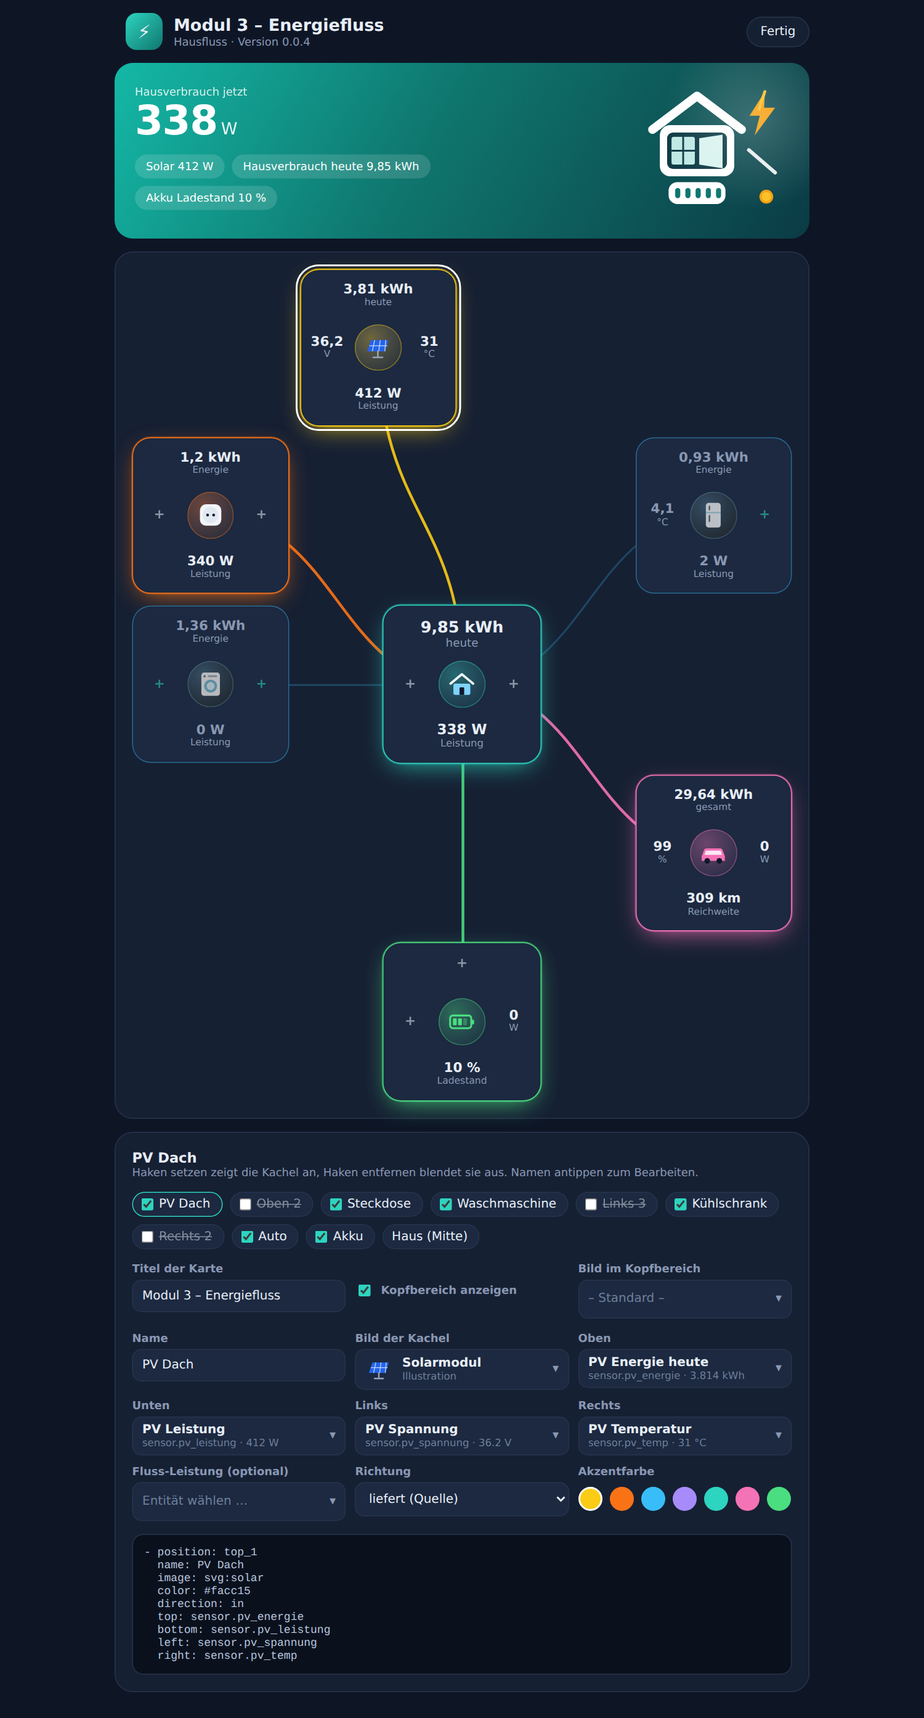
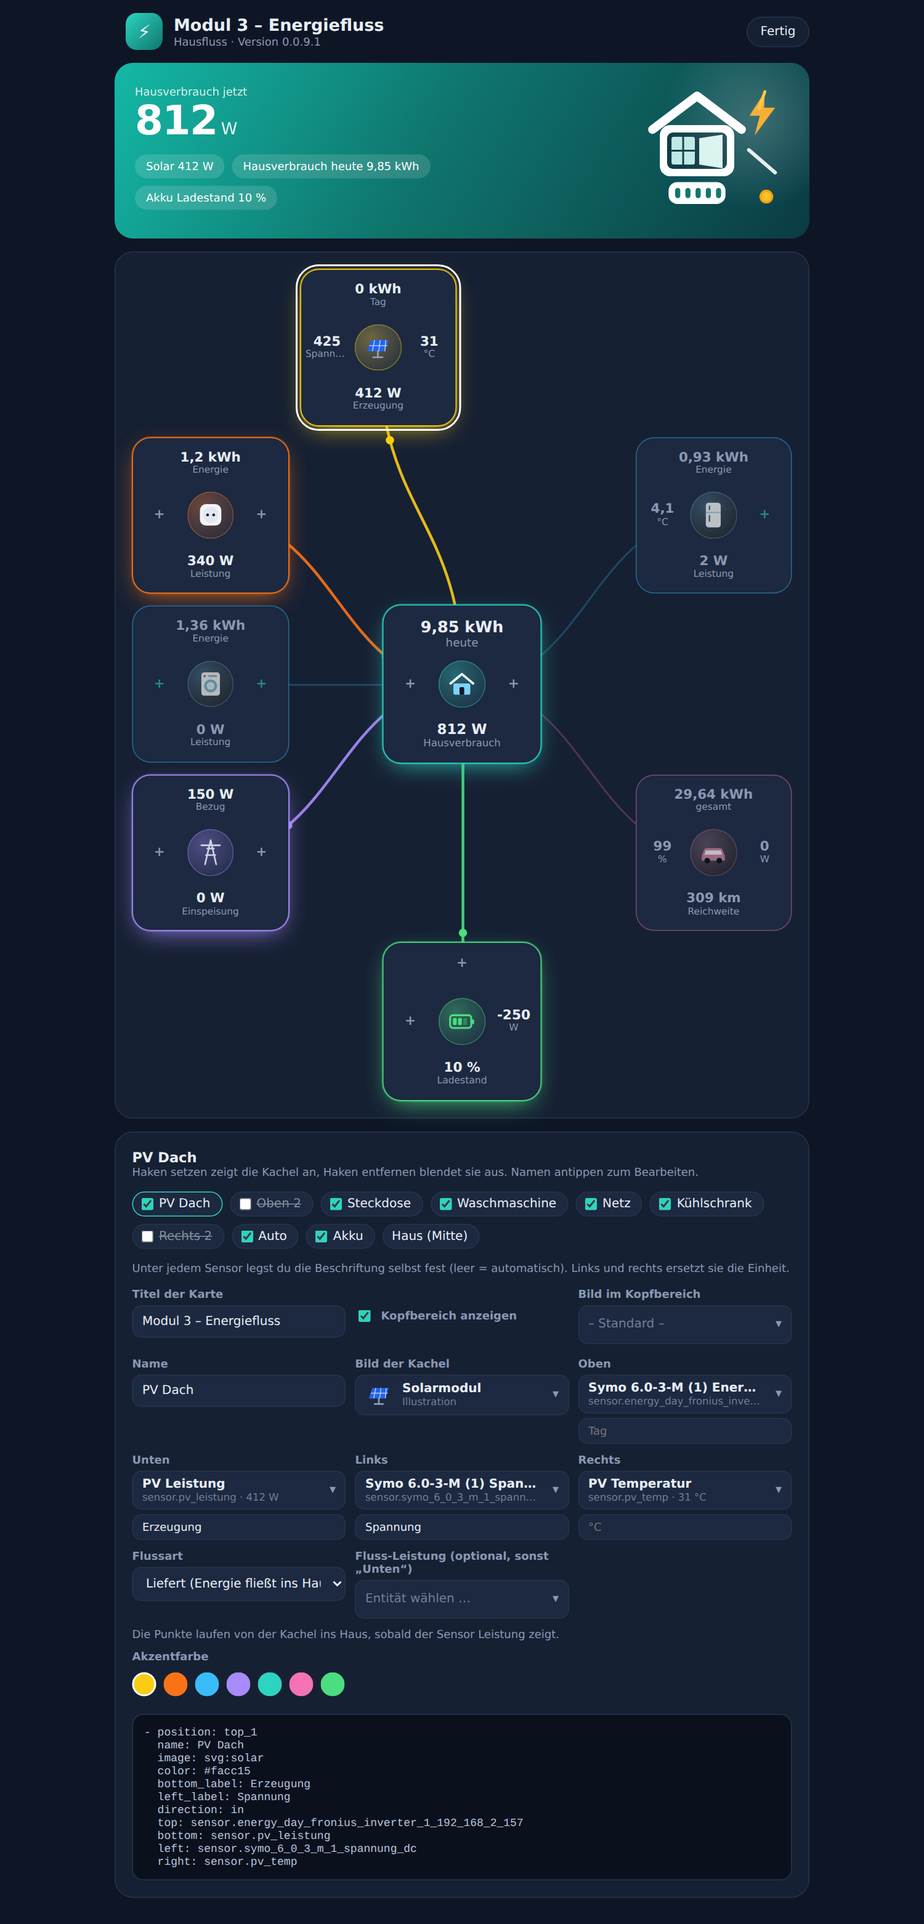
Add files via upload

diff --git a/custom_components/hausfluss/frontend/hausfluss-card.js b/custom_components/hausfluss/frontend/hausfluss-card.js
@@ -1,5 +1,5 @@
-/* Hausfluss – Modul 3 Energiefluss · Version 0.0.7 */
-const VERSION = '0.0.7';
+/* Hausfluss – Modul 3 Energiefluss · Version 0.0.9.1 */
+const VERSION = '0.0.9.1';
 const POS = {
   top_1: [2, 1, 'in', '#facc15'], top_2: [3, 1, 'in', '#fbbf24'],
   left_1: [1, 2, 'out', '#f97316'], left_2: [1, 3, 'out', '#38bdf8'], left_3: [1, 4, 'out', '#a78bfa'],
@@ -43,6 +43,27 @@ const img = (v) => /^svg:/.test(v) ? svgTag(v.slice(4)) : /^(\/|https?:)/.test(v
 const flowOf = (n) => n.flow || (n.direction ? (n.direction === 'in' ? 'supply' : 'consume') : POS[n.position] && POS[n.position][2] === 'in' ? 'supply' : 'consume');
 const toW = (st) => { const v = parseFloat(st?.state); return isNaN(v) ? NaN : /^kW$/i.test(st.attributes.unit_of_measurement || '') ? v * 1000 : v; };
 
+const pidOf = (n, h) => { const b = n.bottom && h.states[n.bottom]; return n.power || (b && /^k?W$/i.test(b.attributes.unit_of_measurement || '') ? n.bottom : ''); };
+// Leistung einer Kachel in W: positiv = zur Kachel, negativ = ins Haus
+const nodeW = (n, h) => {
+  const g = (id) => (id && h.states[id] ? toW(h.states[id]) : NaN), f = flowOf(n);
+  if (f === 'split') { const a = g(n.power_to_node), b = g(n.power_to_house); return (isNaN(a) ? 0 : Math.abs(a)) - (isNaN(b) ? 0 : Math.abs(b)); }
+  const v = g(pidOf(n, h)); if (isNaN(v)) return 0;
+  return f === 'supply' ? -Math.abs(v) : f === 'consume' ? Math.abs(v) : n.invert ? -v : v;
+};
+// Hausverbrauch: Zufluss (Solar, Netzbezug, Akku entladen) minus Abfluss (Einspeisung, Akku laden).
+// Verbraucher-Kacheln gehören zum Haus; nur der Restverbrauch zieht sie zusätzlich ab.
+const calcHouse = (nodes, h) => {
+  let total = 0, cons = 0, bidir = false; const parts = [], cs = [];
+  nodes.forEach((n) => {
+    const f = flowOf(n), w = nodeW(n, h);
+    if (f === 'consume') { if (w) { cons += Math.abs(w); cs.push({ n, v: Math.abs(w) }); } return; }
+    if (f === 'both' || f === 'split') bidir = true;
+    total += -w; parts.push({ n, v: -w });
+  });
+  return { total: Math.max(0, total), rest: Math.max(0, total - cons), parts, cons: cs, bidir };
+};
+
 const CSS = `
 :host{display:block}
 ha-card{display:block;background:none;box-shadow:none;border:none;color:#e8eef8;font-family:inherit}
@@ -71,6 +92,7 @@ svg.lines{position:absolute;inset:0;width:100%;height:100%;z-index:0;pointer-eve
 .s.e{color:#2dd4bf;opacity:.55}
 .s.t{top:8%;left:50%;transform:translateX(-50%)}.s.b{bottom:8%;left:50%;transform:translateX(-50%)}
 .s.l{left:3%;top:50%;transform:translateY(-50%);width:28%}.s.r{right:3%;top:50%;transform:translateY(-50%);width:28%}
+.s.l i,.s.r i{overflow:hidden;text-overflow:ellipsis}
 .hub .s.t{font-size:10cqw}.hub .s.b{font-size:9cqw}
 .narrow .board{padding:14px}
 .narrow .grid{grid-template-columns:1fr 1fr;column-gap:36px;row-gap:14px}
@@ -127,13 +149,10 @@ class HausflussCard extends HTMLElement {
     this._upd();
   }
 
-  _pid(n) { const b = n.bottom && this._h.states[n.bottom]; return n.power || (b && /^k?W$/i.test(b.attributes.unit_of_measurement || '') ? n.bottom : ''); }
-  _w(n) {
-    const h = this._h, g = (id) => (id && h.states[id] ? toW(h.states[id]) : NaN), f = flowOf(n);
-    if (f === 'split') { const a = g(n.power_to_node), b = g(n.power_to_house); return (isNaN(a) ? 0 : Math.abs(a)) - (isNaN(b) ? 0 : Math.abs(b)); }
-    const v = g(this._pid(n)); if (isNaN(v)) return 0;
-    return f === 'supply' ? -Math.abs(v) : f === 'consume' ? Math.abs(v) : n.invert ? -v : v;
-  }
+  _hubW() { const c = calcHouse(Object.values(this._map).filter((n) => n.position !== 'hub'), this._h); return this._map.hub.calc === 'rest' ? c.rest : c.total; }
+  _fmtW(w) { const l = this._h.locale?.language || 'de'; return w >= 1000 ? (w / 1000).toLocaleString(l, { maximumFractionDigits: 2 }) + ' kW' : Math.round(w).toLocaleString(l) + ' W'; }
+  _pid(n) { return pidOf(n, this._h); }
+  _w(n) { return nodeW(n, this._h); }
 
   _fmt(id) {
     const st = this._h.states[id]; if (!st) return ['–', '', ''];
@@ -146,18 +165,21 @@ class HausflussCard extends HTMLElement {
     const h = this._h, r = this.shadowRoot; if (!h || !r.querySelector('.grid')) return;
     const lang = h.locale?.language || 'de';
     r.getElementById('w').classList.toggle('edit', this._edit);
+    const hubW = this._hubW(), SK = { t: 'top', b: 'bottom', l: 'left', r: 'right' };
     r.querySelectorAll('.s').forEach((el) => {
-      const id = el.dataset.e; let html = '';
-      if (id) { const [v, u, l] = this._fmt(id); html = /[lr]/.test(el.className.split(' ')[1]) ? `${v}<i>${esc(u)}</i>` : `${v} ${esc(u)}<i>${esc(l)}</i>`; el.title = h.states[id]?.attributes.friendly_name || id; }
+      const id = el.dataset.e, nd = el.closest('.node'), n = this._map[nd.dataset.p] || {}, side = SK[el.className.split(' ')[1]], lab = String(n[side + '_label'] || '').trim();
+      let html = '', calc = false;
+      if (id) { const [v, u, l] = this._fmt(id); html = 'lr'.includes(side[0]) ? `${v}<i>${esc(lab || u)}</i>` : `${v} ${esc(u)}<i>${esc(lab || l)}</i>`; el.title = h.states[id]?.attributes.friendly_name || id; }
+      else if (nd.dataset.p === 'hub' && side === 'bottom') { calc = true; html = `${this._fmtW(hubW)}<i>${esc(lab || (this._map.hub.calc === 'rest' ? 'Restverbrauch' : 'Hausverbrauch'))}</i>`; el.title = 'Berechnet aus allen Kacheln'; }
       else if (this._edit) html = '+';
-      el.classList.toggle('e', !id && this._edit);
+      el.classList.toggle('e', !id && !calc && this._edit);
       if (el._v !== html) { el._v = html; el.innerHTML = html; }
     });
     const hv = r.getElementById('hv');
     if (hv) {
-      const hb = this._map.hub, pe = hb.power || hb.bottom, w = pe && h.states[pe] ? toW(h.states[pe]) : NaN;
+      const hb = this._map.hub, pe = hb.power || hb.bottom, w = pe ? (h.states[pe] ? toW(h.states[pe]) : NaN) : hubW;
       hv.textContent = isNaN(w) ? '–' : Math.abs(Math.round(w)).toLocaleString(lang);
-      r.getElementById('hl').textContent = !isNaN(w) && w < 0 ? 'Einspeisung jetzt' : 'Hausverbrauch jetzt';
+      r.getElementById('hl').textContent = !isNaN(w) && w < 0 ? 'Einspeisung jetzt' : !pe && hb.calc === 'rest' ? 'Restverbrauch jetzt' : 'Hausverbrauch jetzt';
       const ch = []; let sol = 0, has = false;
       Object.values(this._map).forEach((n) => {
         if (n.position === 'hub' || flowOf(n) !== 'supply') return;
@@ -211,13 +233,17 @@ h2{margin:0;font-size:15px}p{margin:0;font-size:12px;color:#8a98b3}
 .tg.cur{border-color:#2dd4bf}.tg.off button{opacity:.5;text-decoration:line-through}
 .tg button{background:none;border:0;color:#e8eef8;font:600 12px inherit;font-family:inherit;cursor:pointer;padding:0}
 .tg input{accent-color:#2dd4bf;margin:0}
-.f{display:grid;grid-template-columns:repeat(auto-fit,minmax(220px,1fr));gap:10px}
-label,.fld{display:grid;gap:5px;font-size:12px;color:#8a98b3;font-weight:600;align-content:start}
+.f{display:grid;grid-template-columns:repeat(auto-fit,minmax(min(220px,100%),1fr));gap:10px}.f>*{min-width:0}
+label,.fld{display:grid;grid-template-columns:minmax(0,1fr);min-width:0;gap:5px;font-size:12px;color:#8a98b3;font-weight:600;align-content:start}
 input:not([type=checkbox]),select{background:#1c2940;border:1px solid #26344d;color:#e8eef8;border-radius:10px;padding:9px 10px;font:500 13px inherit;font-family:inherit;min-width:0;width:100%;box-sizing:border-box}
 input:focus-visible,select:focus-visible,button:focus-visible{outline:2px solid #2dd4bf;outline-offset:2px}
-.pk{position:relative}
-.pkb{display:flex;align-items:center;gap:10px;width:100%;min-height:42px;text-align:left;background:#1c2940;border:1px solid #26344d;color:#e8eef8;border-radius:10px;padding:6px 10px;font:500 13px inherit;font-family:inherit;cursor:pointer}
-.pkb::after{content:"▾";margin-left:auto;color:#8a98b3}.pkb:hover{border-color:#2dd4bf}
+.pk{position:relative;min-width:0;width:100%}
+.fld .lbl{font-size:12px;padding:6px 10px}
+.calc{background:#101a2c;border:1px solid #26344d;border-radius:12px;padding:12px;display:grid;gap:8px}.calc b{font-size:12px}
+.calc ul{list-style:none;margin:0;padding:0;display:grid;gap:4px}.calc li,.calc .sum{display:flex;justify-content:space-between;gap:10px;font-size:13px}
+.calc em{font-style:normal;font-weight:600;color:#2dd4bf;white-space:nowrap}.calc .sum{border-top:1px solid #26344d;padding-top:6px;font-weight:700}.calc .warn{color:#f59e0b}
+.pkb{min-width:0;max-width:100%;overflow:hidden;box-sizing:border-box;display:flex;align-items:center;gap:10px;width:100%;min-height:42px;text-align:left;background:#1c2940;border:1px solid #26344d;color:#e8eef8;border-radius:10px;padding:6px 10px;font:500 13px inherit;font-family:inherit;cursor:pointer}
+.pkb::after{content:"▾";margin-left:auto;padding-left:6px;flex:none;color:#8a98b3}.pkb:hover{border-color:#2dd4bf}
 .ph{color:#6f7e9a}
 .pop{position:absolute;left:0;top:calc(100% + 4px);z-index:30;width:max(100%,300px);max-width:86vw;background:#101a2c;border:1px solid #2dd4bf88;border-radius:12px;box-shadow:0 14px 34px #000a;padding:8px}
 .pop .q{margin-bottom:6px}.list{max-height:270px;overflow:auto;display:grid;gap:2px}
@@ -256,8 +282,22 @@ class HausflussEditor extends HTMLElement {
   _picked(p) { this.dispatchEvent(new CustomEvent('hausfluss-selected', { detail: { position: p }, bubbles: true, composed: true })); }
   _closeAll() { this.shadowRoot.querySelectorAll('.pop').forEach((p) => (p.hidden = true)); }
 
-  _entLabel(id) {
-    if (!id) return '<span class="ph">Entität wählen …</span>';
+  _calcUi(n) {
+    if (n.bottom || !this._h) return '';
+    const nodes = (this._c.nodes || []).filter((x) => POS[x.position] && x.enabled !== false), c = calcHouse(nodes, this._h), rest = n.calc === 'rest';
+    const nm = (x) => esc(x.name || POSNAME[x.position]), w = (v) => Math.round(Math.abs(v)).toLocaleString('de') + ' W';
+    const rows = c.parts.map((x) => `<li><span>${nm(x.n)}</span><em>${x.v >= 0 ? '+' : '−'}${w(x.v)}</em></li>`).join('') || '<li><span>keine Quelle gefunden</span><em>–</em></li>';
+    const cons = rest ? c.cons.map((x) => `<li><span>${nm(x.n)} (Verbraucher)</span><em>−${w(x.v)}</em></li>`).join('') : '';
+    const warn = !c.parts.length ? 'Keine Quelle gefunden. Lege Kacheln für Solar, Netz und Akku an und wähle bei Netz und Akku die Flussart „Beides“.' : !c.bidir ? 'Keine Kachel mit Flussart „Beides“ (Netz, Akku) gefunden. Ohne Netzbezug, Einspeisung und Akku kann der Wert falsch sein.' : '';
+    return `<label>Berechnung<select data-calc><option value="total"${rest ? '' : ' selected'}>Gesamtverbrauch</option><option value="rest"${rest ? ' selected' : ''}>Restverbrauch (ohne Verbraucher-Kacheln)</option></select></label><div class="calc" style="grid-column:1/-1"><b>So wird der Hausverbrauch berechnet (Momentaufnahme)</b><ul>${rows}${cons}</ul><div class="sum"><span>${rest ? 'Restverbrauch' : 'Gesamtverbrauch'}</span><em>${w(rest ? c.rest : c.total)}</em></div>${warn ? `<p class="warn">${warn}</p>` : ''}<p>Zufluss: Solar, Netzbezug, Akku entladen. Abzug: Einspeisung, Akku laden. Kacheln mit Flussart „Verbraucht“ gehören zum Haus und werden nur beim Restverbrauch abgezogen.</p></div>`;
+  }
+  _auto(n, side, hub) {
+    const id = n[side]; if (!id) return hub && side === 'bottom' ? (n.calc === 'rest' ? 'Restverbrauch' : 'Hausverbrauch') : '';
+    const st = this._h?.states?.[id]; if (!st) return '';
+    return 'lr'.includes(side[0]) ? st.attributes.unit_of_measurement || '' : (st.attributes.friendly_name || id).split(' ').pop();
+  }
+  _entLabel(id, calc) {
+    if (!id) return calc ? '<span class="ph">Automatisch berechnet (Hausverbrauch)</span>' : '<span class="ph">Entität wählen …</span>';
     const st = this._h?.states?.[id];
     return `<span class="tx"><b>${esc(st?.attributes.friendly_name || id)}</b><i>${esc(id)}${st ? ' · ' + esc(st.state + ' ' + (st.attributes.unit_of_measurement || '')) : ' · nicht gefunden'}</i></span>`;
   }
@@ -271,8 +311,10 @@ class HausflussEditor extends HTMLElement {
     const it = this._imgFind(v);
     return `<span class="th">${img(v)}</span><span class="tx"><b>${esc(it ? it.n : v)}</b><i>${it ? it.t : 'Eigenes Bild'}</i></span>`;
   }
-  _fld(kind, f, label, val) {
-    return `<div class="fld"><span>${label}</span><div class="pk" data-k="${kind}" data-f="${f}"><button type="button" class="pkb" aria-haspopup="listbox">${kind === 'entity' ? this._entLabel(val) : this._imgLabel(val)}</button><div class="pop" hidden><input class="q" placeholder="${kind === 'entity' ? 'Suchen …' : 'Suchen oder mdi:icon / Pfad eingeben'}" autocomplete="off" aria-label="Suchen"><div class="list" role="listbox"></div></div></div></div>`;
+  _fld(kind, f, label, val, side) {
+    const n = this._node(this._sel), hub = this._sel === 'hub';
+    const lb = side ? `<input class="lbl" data-lb="${side}" value="${esc(n[side + '_label'] || '')}" placeholder="${esc(this._auto(n, side, hub) || 'Beschriftung')}" aria-label="Beschriftung ${FL[side]}">` : '';
+    return `<div class="fld"><span>${label}</span><div class="pk" data-k="${kind}" data-f="${f}"><button type="button" class="pkb" aria-haspopup="listbox">${kind === 'entity' ? this._entLabel(val, hub && f === 'bottom') : this._imgLabel(val)}</button><div class="pop" hidden><input class="q" placeholder="${kind === 'entity' ? 'Suchen …' : 'Suchen oder mdi:icon / Pfad eingeben'}" autocomplete="off" aria-label="Suchen"><div class="list" role="listbox"></div></div></div>${lb}</div>`;
   }
   _ents(t) {
     const S = this._h?.states || {};
@@ -314,7 +356,8 @@ class HausflussEditor extends HTMLElement {
     const f = pk.dataset.f, k = pk.dataset.k, p = this._sel;
     if (/^chip\d$/.test(f)) { const cur = this._node('hub').chips || []; this._set('hub', { chips: [0, 1, 2].map((i) => (i === +f[4] ? v : cur[i] || '')).filter(Boolean) }); this._draw(); return; }
     if (f === 'hero_image') this._top({ hero_image: v || undefined }); else this._set(p, { [f]: v });
-    pk.querySelector('.pkb').innerHTML = k === 'entity' ? this._entLabel(v) : this._imgLabel(v);
+    pk.querySelector('.pkb').innerHTML = k === 'entity' ? this._entLabel(v, f === 'bottom' && p === 'hub') : this._imgLabel(v);
+    const lb = pk.parentElement.querySelector('.lbl'); if (lb) lb.placeholder = this._auto(this._node(p), f, p === 'hub') || 'Beschriftung';
     this._chips(); this._yaml();
   }
   _flowUi(n, fl) {
@@ -350,17 +393,21 @@ class HausflussEditor extends HTMLElement {
     const c = this._c, p = this._sel, hub = p === 'hub', n = this._node(p), col = n.color || (POS[p] || [])[3] || '#2dd4bf', chips = n.chips || [], fl = hub ? '' : flowOf({ ...n, position: p });
     this.shadowRoot.innerHTML = `<style>${ECSS}</style><div class="panel"><div><h2>${esc(n.name || (hub ? 'Haus' : POSNAME[p]))}</h2><p>Haken setzen zeigt die Kachel an, Haken entfernen blendet sie aus. Namen antippen zum Bearbeiten.</p></div>
 <div class="tgl" id="tgl"></div>
+<p>Unter jedem Sensor legst du die Beschriftung selbst fest (leer = automatisch). Links und rechts ersetzt sie die Einheit.${hub ? ' „Unten“ leer lassen: Der Hausverbrauch wird aus allen Kacheln berechnet.' : ''}</p>
 <div class="f"><label>Titel der Karte<input id="ti" value="${esc(c.title || '')}" placeholder="Modul 3 – Energiefluss"></label><label class="row"><input type="checkbox" id="sh"${c.show_hero === false ? '' : ' checked'}>Kopfbereich anzeigen</label>${this._fld('image', 'hero_image', 'Bild im Kopfbereich', c.hero_image)}</div>
 <div class="f"><label>Name<input data-f="name" value="${esc(n.name || '')}"></label>${this._fld('image', 'image', 'Bild der Kachel', n.image)}
-${SIDES.map((s) => this._fld('entity', s, FL[s], n[s])).join('')}
-${hub ? [0, 1, 2].map((i) => this._fld('entity', 'chip' + i, 'Chip ' + (i + 1) + ' (Kopfbereich)', chips[i] || '')).join('') : this._flowUi(n, fl) + `<div class="fld"><span>Akzentfarbe</span><div class="sw">${SW.map((x) => `<button data-c="${x}" style="background:${x}" class="${x === col ? 'a' : ''}" aria-label="Farbe ${x}"></button>`).join('')}</div></div>`}</div>
+${SIDES.map((s) => this._fld('entity', s, hub && s === 'bottom' ? 'Unten (leer = berechnet)' : FL[s], n[s], s)).join('')}
+${hub ? this._calcUi(n) + [0, 1, 2].map((i) => this._fld('entity', 'chip' + i, 'Chip ' + (i + 1) + ' (Kopfbereich)', chips[i] || '')).join('') : this._flowUi(n, fl) + `<div class="fld"><span>Akzentfarbe</span><div class="sw">${SW.map((x) => `<button data-c="${x}" style="background:${x}" class="${x === col ? 'a' : ''}" aria-label="Farbe ${x}"></button>`).join('')}</div></div>`}</div>
 <pre id="y"></pre></div>`;
     this._chips(); this._yaml();
     const r = this.shadowRoot;
     r.getElementById('ti').onchange = (e) => this._top({ title: e.target.value.trim() });
     r.getElementById('sh').onchange = (e) => this._top({ show_hero: e.target.checked ? undefined : false });
     r.querySelectorAll('.pk').forEach((pk) => this._wire(pk));
+    r.querySelectorAll('input.lbl').forEach((i) => (i.onchange = () => { this._set(p, { [i.dataset.lb + '_label']: i.value.trim() }); this._yaml(); }));
     r.querySelectorAll('input[data-f],select[data-f]').forEach((i) => (i.onchange = () => { this._set(p, { [i.dataset.f]: i.value.trim() }); this._chips(); this._yaml(); }));
+    const cs = r.querySelector('[data-calc]');
+    if (cs) cs.onchange = () => { this._set('hub', { calc: cs.value === 'rest' ? 'rest' : '' }); this._draw(); };
     const fs = r.querySelector('[data-fl]');
     if (fs) fs.onchange = () => { const v = fs.value; this._set(p, { flow: v, direction: '', ...(v !== 'split' ? { power_to_node: '', power_to_house: '' } : {}), ...(v !== 'both' ? { invert: '' } : {}) }); this._draw(); };
     const iv = r.querySelector('[data-inv]');

diff --git a/custom_components/hausfluss/const.py b/custom_components/hausfluss/const.py
@@ -1,6 +1,6 @@
 """Konstanten für Hausfluss."""
 DOMAIN = "hausfluss"
-VERSION = "0.0.7"
+VERSION = "0.0.9.1"
 URL_BASE = "/hausfluss_static"
 CARD_FILE = "hausfluss-card.js"
 JS_URL = f"{URL_BASE}/{CARD_FILE}?v={VERSION}"

diff --git a/README.md b/README.md
@@ -1,4 +1,4 @@
-# Hausfluss – Modul 3 Energiefluss (v0.0.7)
+# Hausfluss – Modul 3 Energiefluss (v0.0.9.1)
 
 Lovelace-Karte für Home Assistant: ein Haus-Knoten in der Mitte, bis zu 9 Kacheln drumherum.
 Jede Kachel hat ein Bild in der Mitte und je eine Entität oben, unten, links und rechts.
@@ -26,6 +26,14 @@ Mit der Integration entsteht automatisch eine Seite **Energiefluss** links in de
   - *Liefert*: Energie fließt von der Kachel ins Haus, z. B. Solar (ein Sensor, optional).
   - *Beides – ein Sensor mit Vorzeichen*: für Netz oder Akku. Positiv heißt „zur Kachel“, negativ „ins Haus“. Liefert dein Sensor es umgekehrt, setzt du „Vorzeichen umkehren“.
   - *Beides – zwei Sensoren*: z. B. Netzbezug und Einspeisung oder Laden und Entladen. Der größere Wert bestimmt die Richtung.
+- **Haus-Kachel:** Lässt du bei „Haus (Mitte)“ das Feld „Unten“ leer, wird der Hausverbrauch automatisch berechnet. Dafür braucht es keine zusätzlichen Entitäten bei der Haus-Kachel, die Werte kommen aus den anderen Kacheln:
+  - **Zufluss:** Kacheln mit Flussart „Liefert“ (Solar) sowie Netzbezug und Akku entladen von Kacheln mit „Beides“.
+  - **Abzug:** Einspeisung und Akku laden (ebenfalls „Beides“).
+  - **Gesamtverbrauch** (Standard) = Zufluss − Abzug. Kacheln mit „Verbraucht“ (Steckdose, Auto, …) gehören zum Haus und werden **nicht** abgezogen.
+  - **Restverbrauch** (Auswahl „Berechnung“) zieht zusätzlich die Verbraucher-Kacheln ab, ergibt also den Verbrauch ohne die einzeln erfassten Geräte.
+  - Im Editor der Haus-Kachel zeigt „So wird der Hausverbrauch berechnet“, welche Kacheln mit welchem Wert einfließen, und warnt, wenn Netz oder Akku mit Flussart „Beides“ fehlen. Ohne sie ist das Ergebnis nicht vollständig.
+  - Ab 1000 W erscheint der Wert in kW, negative Werte durch Messabweichungen als 0 W. Wählst du bei „Unten“ einen eigenen Sensor, hat dieser Vorrang.
+- **Beschriftungen:** Unter jedem Sensor legst du die Beschriftung selbst fest, z. B. „Erzeugung“ statt „Leistung“. Leer = automatisch (letztes Wort des Entitätsnamens). Oben und unten ersetzt sie die Zeile unter dem Wert, links und rechts ersetzt sie die Einheit.
 - **Kopfbereich:** Rechts steht ein Bild (Standard: Haus mit Blitz). Es lässt sich ändern oder mit „Kein Bild“ ausblenden.
 - Gespeichert wird zentral, alle Benutzer sehen dieselbe Seite.
 - Titel, Symbol und „nur für Administratoren“ stellst du unter *Einstellungen → Geräte & Dienste → Hausfluss → Konfigurieren* ein.
@@ -34,6 +42,8 @@ Mit der Integration entsteht automatisch eine Seite **Energiefluss** links in de
 ![Einrichtung der Kacheln](images/editor.png)
 
 ![Flussart mit zwei Sensoren](images/flussart.png)
+
+![Haus-Kachel mit berechnetem Hausverbrauch](images/haus.png)
 
 | Entität suchen | Bild suchen |
 |---|---|
@@ -49,7 +59,7 @@ Ist die Karte schmaler als 600 Pixel, wechselt sie automatisch in ein Handy-Layo
 4. Seite öffnen → **Anpassen** → Kacheln und Entitäten wählen.
 
 Manuell: den Ordner `custom_components/hausfluss` nach `config/custom_components/` kopieren.
-Beim Veröffentlichen auf GitHub (`Maddog3010/hausfluss`) ein Release mit dem Tag `v0.0.7` anlegen.
+Beim Veröffentlichen auf GitHub (`Maddog3010/hausfluss`) ein Release mit dem Tag `v0.0.9.1` anlegen.
 
 ## YAML-Beispiel
 ```yaml
@@ -61,7 +71,9 @@ hub:
   name: Haus
   image: 🏠
   top: sensor.haus_energie_heute   # Chip „Hausverbrauch heute“
-  bottom: sensor.haus_leistung     # große Zahl im Kopfbereich
+  # bottom leer = Hausverbrauch wird berechnet (sonst eigener Sensor)
+  calc: total                      # total = Gesamtverbrauch, rest = Restverbrauch
+  bottom_label: Hausverbrauch      # Beschriftung unter dem Wert (optional)
   chips: [sensor.akku_ladestand]   # weitere Chips (optional)
 nodes:
   - position: top_1        # top_1, top_2, left_1-3, right_1-3, bottom
@@ -74,6 +86,7 @@ nodes:
     bottom: sensor.pv_leistung
     left: sensor.pv_spannung
     right: sensor.pv_temperatur
+    bottom_label: Erzeugung        # optional: top_label, bottom_label, left_label, right_label
     power: sensor.pv_leistung   # optional, steuert die Fluss-Animation
   - position: left_3
     name: Netz

diff --git a/CHANGELOG.md b/CHANGELOG.md
@@ -1,5 +1,19 @@
 # Änderungen
 
+## 0.0.9.1
+- **Korrigiert:** In 0.0.9 wurden bei der Berechnung auch die Verbraucher-Kacheln (Steckdose, Auto, …) abgezogen. Das war der Restverbrauch und nicht der Hausverbrauch. Jetzt ist der Standard der **Gesamtverbrauch** (Zufluss minus Einspeisung und Akku laden).
+- Neu: Auswahl „Berechnung“ bei der Haus-Kachel (`calc: total` oder `rest`). „Restverbrauch“ liefert den bisherigen Wert aus 0.0.9.
+- Neu: Im Editor der Haus-Kachel zeigt „So wird der Hausverbrauch berechnet“ alle einfließenden Kacheln mit Wert und warnt, wenn Quelle, Netz oder Akku mit Flussart „Beides“ fehlen.
+
+## 0.0.9
+- Haus-Kachel: „Unten“ zeigt jetzt den **berechneten Hausverbrauch** (Zufluss minus Abfluss aller Kacheln), solange kein eigener Sensor gewählt ist. Der Kopfbereich nutzt denselben Wert.
+- Die **Beschriftung unter den Werten** lässt sich selbst festlegen (`top_label`, `bottom_label`, `left_label`, `right_label`), auch bei der Haus-Kachel. Im Editor steht unter jedem Sensor ein Feld dafür, die automatische Beschriftung erscheint als Platzhalter.
+- Lange Beschriftungen links und rechts werden mit „…“ gekürzt.
+
+## 0.0.8
+- Behoben: Die Auswahlfelder für Entitäten überlappten sich bei langen Namen und IDs. Die Felder bleiben jetzt in ihrer Spalte, lange Texte werden mit „…“ gekürzt.
+- Geprüft bei 1000, 600 und 390 Pixel Breite.
+
 ## 0.0.7
 - **Behoben: Die Integration wurde in 0.0.5 und 0.0.6 nicht geladen.** Die Datei `const.py` war durch einen Fehler beim Paketieren leer, dadurch scheiterte der Import beim Start. Funktionsumfang ist sonst wie in 0.0.6. Bitte 0.0.5 und 0.0.6 überspringen.
 
